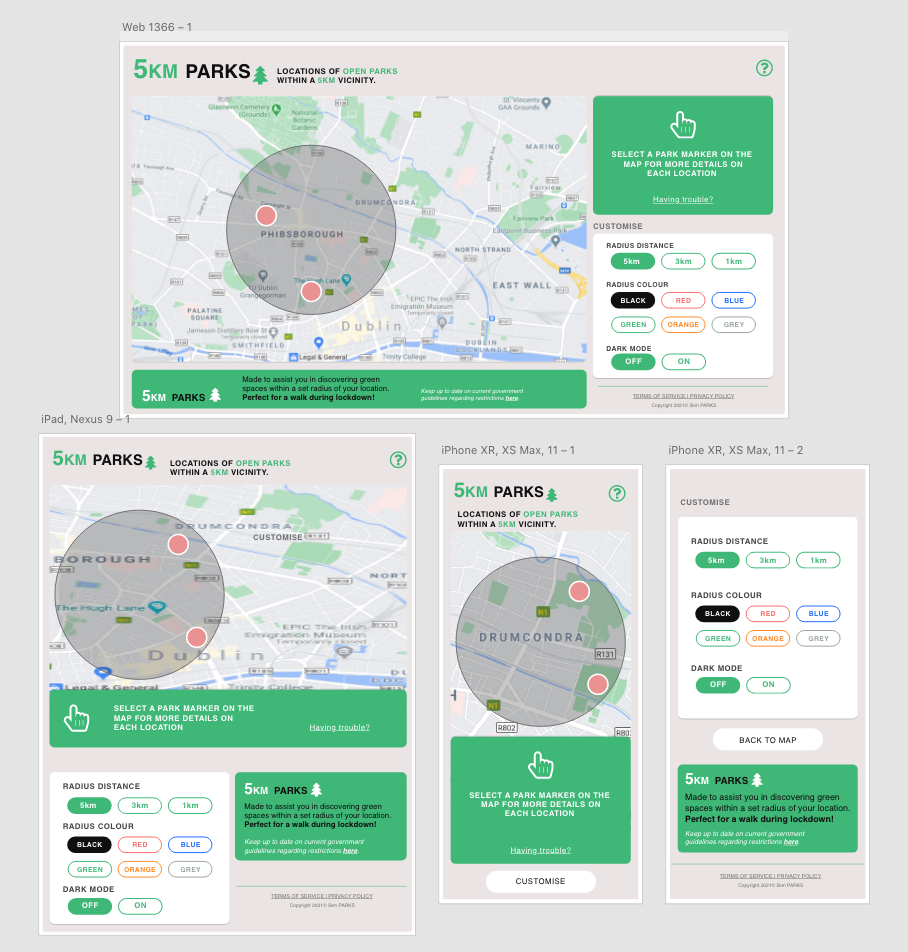
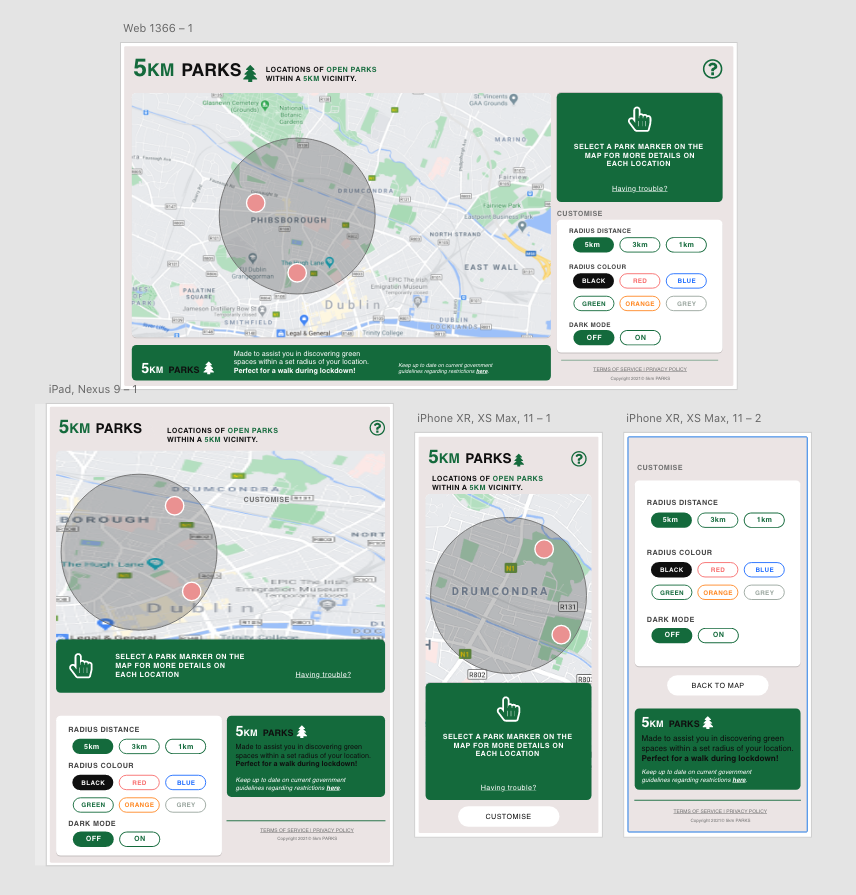
readme: Updated wireframes
fix: Green button on radius colour controls was not working

Changed region(s): [[0.0304, 0.0, 0.972, 0.9955], [0.5467, 0.0905, 0.6075, 0.1207]]

diff --git a/index.html b/index.html
@@ -150,7 +150,7 @@
 							<button aria-label="Radius Colour" class="colour-controls active" data-colour="#0F0F0F">Black</button>
 							<button aria-label="Radius Colour" class="colour-controls" data-colour="#F86C6C">Red</button>
 							<button aria-label="Radius Colour" class="colour-controls" data-colour="#1F6DFF">Blue</button>
-							<button aria-label="Radius Colour" class="colour-controls" data-colour="#3FB777">Green</button>
+							<button aria-label="Radius Colour" class="colour-controls" data-colour="#146A3C">Green</button>
 							<button aria-label="Radius Colour" class="colour-controls" data-colour="#FF8A27">Orange</button>
 							<button aria-label="Radius Colour" class="colour-controls" data-colour="#99A59E">Grey</button>
 						</div>

diff --git a/assets/css/style.css b/assets/css/style.css
@@ -459,15 +459,15 @@ p.location-error a {
 	color: #ffffff;
 }
 
-.colour-controls[data-colour="#146a3c"] {
-	border-color: #146a3c;
+.colour-controls[data-colour="#146A3C"] {
+	border-color: #146A3C;
 	background: transparent;
-	color: #146a3c;
+	color: #146A3C;
 }
 
-.colour-controls.active[data-colour="#146a3c"] {
-	border-color: #146a3c;
-	background: #146a3c;
+.colour-controls.active[data-colour="#146A3C"] {
+	border-color: #146A3C;
+	background: #146A3C;
 	color: #ffffff;
 }
 
